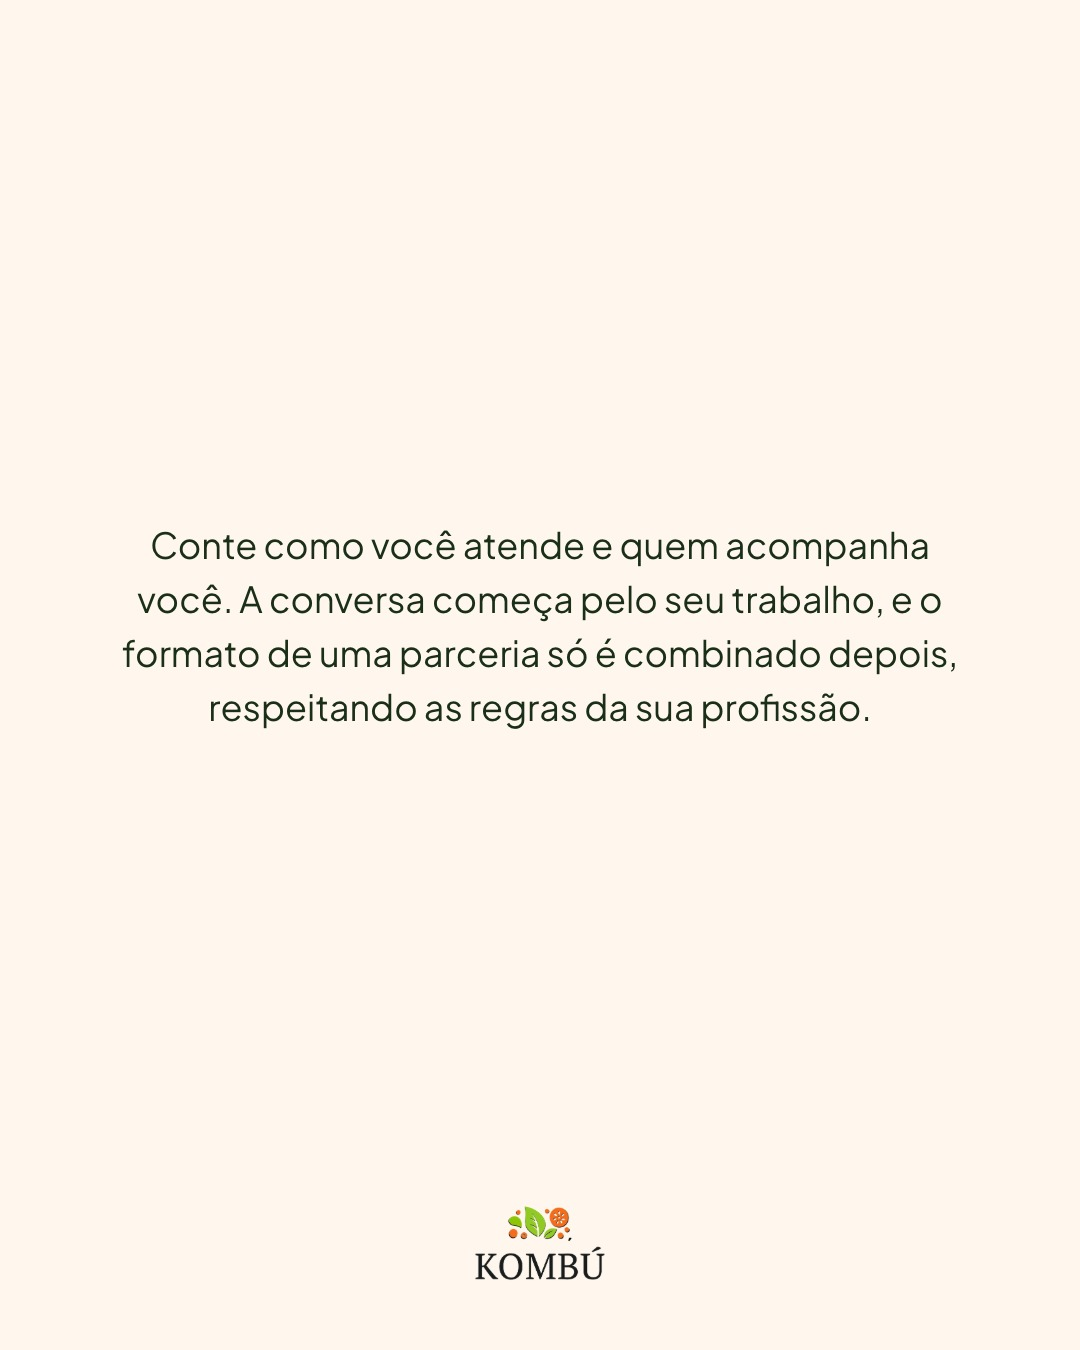
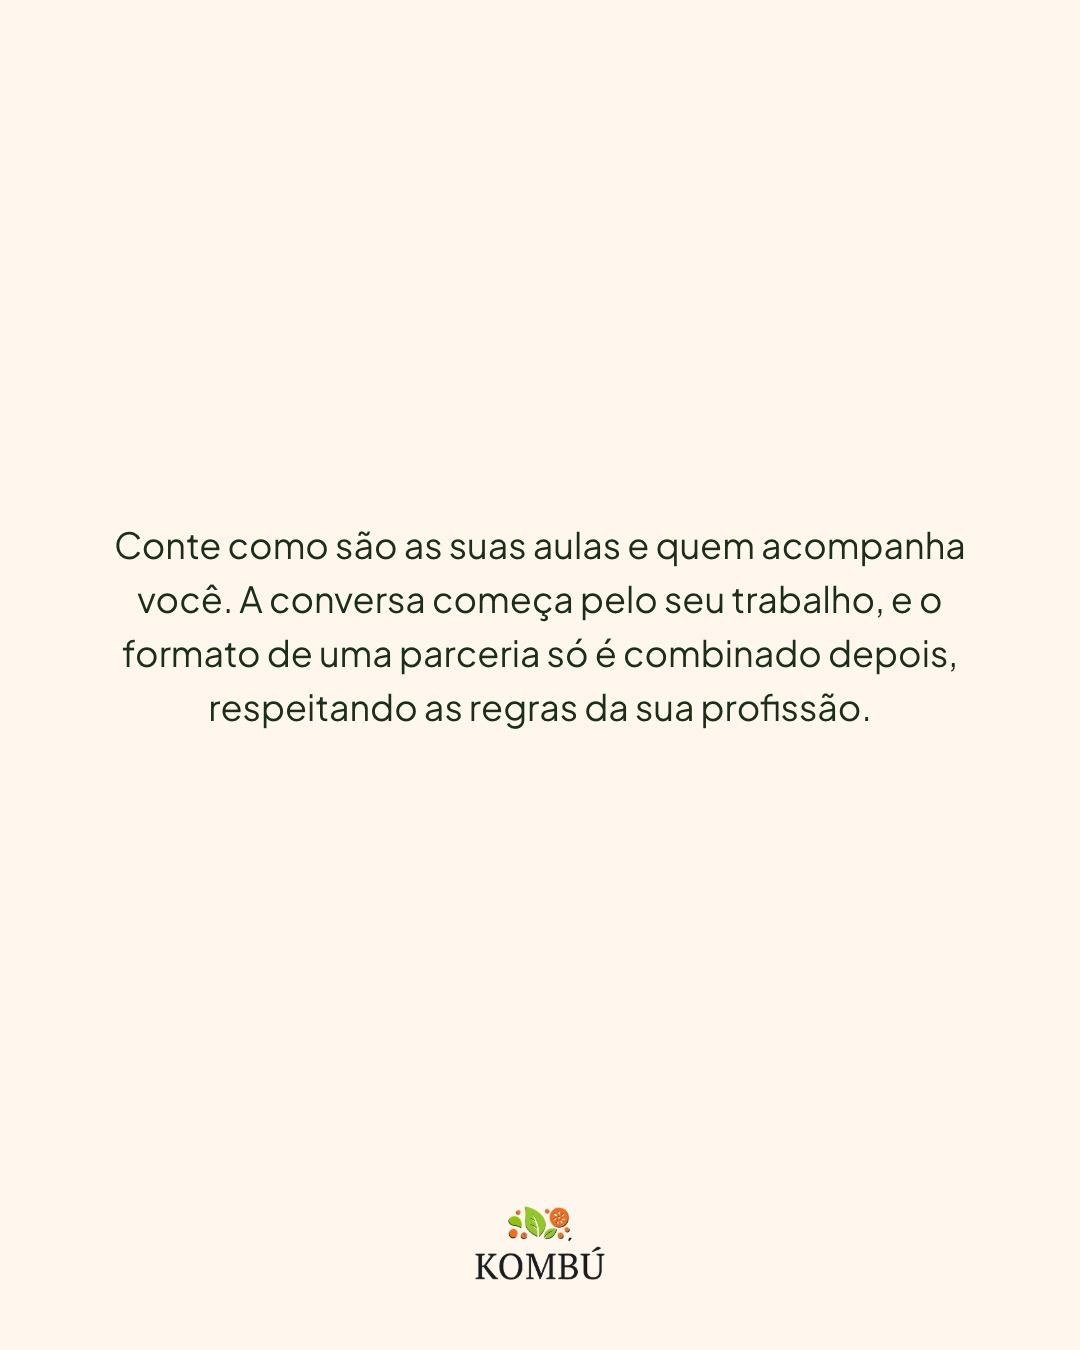
Clearer headlines in the queue: 12 (lunch), 16 (what stays out), 24 now for yoga/pilates
Owner flagged 12's headline as meaningless; 16-3 had a double negative and 24
repeated the audience of the new 25/26 posts. The autopilot reviewer now checks
that every headline makes sense on its own.

Changed region(s): [[0.1222, 0.3733, 0.8861, 0.4356]]

diff --git a/marketing/instagram/claude-propostas/2026-11-03-direcao-criativa/CONCEITOS.md b/marketing/instagram/claude-propostas/2026-11-03-direcao-criativa/CONCEITOS.md
@@ -65,7 +65,7 @@ Folha grande de papel de algodão cor creme, lisa e sem textura forte, fotografa
 ## 2. Consumo · "Almoço leve"
 **Sabor:** Maracujá · **Formato:** carrossel de 2. Ajustado em 03/11 a pedido do dono: o prato compõe a cena, mas o foco é a Kombú.
 
-**Chamada (slide 1, faixa no alto):** No almoço, a Kombú de Maracujá vai com a polpa e as sementes da fruta.
+**Chamada (slide 1, faixa no alto):** Sanduíche natural no almoço pede uma Kombú de Maracujá bem gelada.
 
 **Composição**
 - **Slide 1:**
@@ -179,13 +179,13 @@ Sem consultório, balança, jaleco ou qualquer objeto clínico. A peça convida 
 
 **Legenda**
 ```
-Se você é nutricionista, nutrólogo ou personal trainer em Manaus, a gente quer começar pelo seu trabalho.
+Professor de yoga, pilates ou meditação em Manaus? A Kombú quer conhecer o seu trabalho.
 
-Queremos entender como você atende e quem acompanha você antes de falar em qualquer formato de parceria. A Kombú é kombucha artesanal, produzida aqui em Manaus, e cada conversa respeita a atuação e as regras de cada profissão.
+Antes de falar em qualquer formato de parceria, queremos entender como são as suas aulas e quem acompanha você. A Kombú é kombucha artesanal, produzida aqui em Manaus, suave e com sabor intenso.
 
 Para apresentar o seu trabalho, acesse Parcerias, no site. São perguntas rápidas e a conversa continua pelo WhatsApp. Link na bio.
 
-#kombucha #manaus #parcerias #kombuchaartesanal #aartedonatural
+#kombucha #manaus #yogamanaus #kombuchaartesanal #aartedonatural
 ```
 
 **Prompt (slide 1)**

diff --git a/marketing/instagram/claude-propostas/AUTOPILOTO.md b/marketing/instagram/claude-propostas/AUTOPILOTO.md
@@ -115,6 +115,8 @@ Regras do dono que não negociam:
   - nada inventado sobre a marca.
   - Imunidade é só nome de sabor.
   - Frases que se completam, sem soar robótico.
+  - **O título de cada slide faz sentido sozinho**, lido por quem não viu a legenda. O dono recusou em 03/11 "No almoço, a Kombú de Maracujá vai com a polpa e as sementes da fruta". Nada de negação dupla ("não leva: nenhum...").
+  - O revisor lê cada título em voz alta e pergunta: um cliente entende o que isso quer dizer na primeira leitura?
 - **Hashtags:** até 5, sempre com #manaus, e abertura da legenda com no máximo 125 caracteres.
 
 Depois de renderizar, chame um agente revisor independente, sem contexto desta conversa. Passe a ele:
